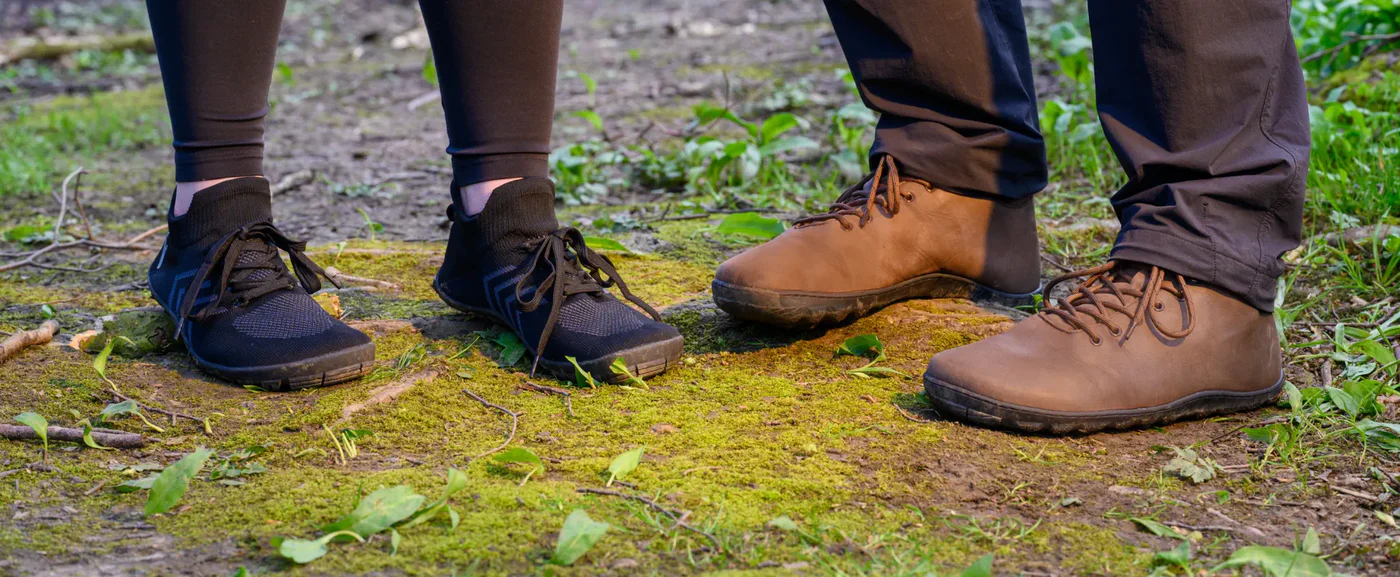
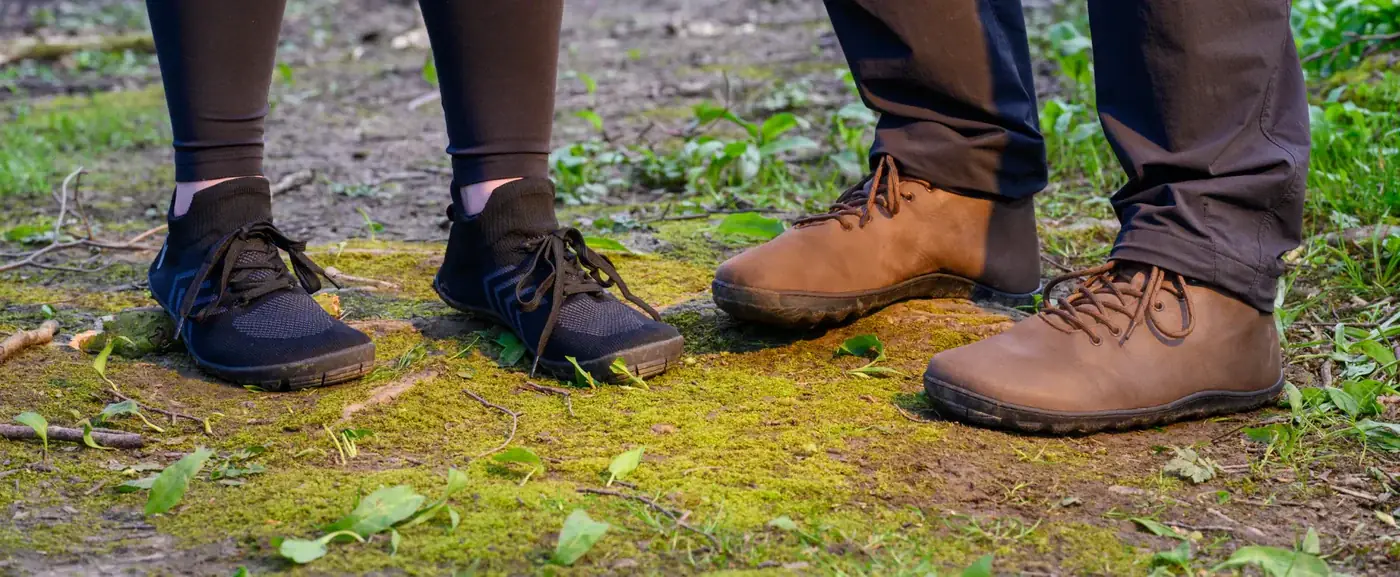
Improve mobile LCP and Lighthouse performance
Defer non-critical CSS (cart, search, footer, assistant, notice, listing, reviews) so only global/nav/home block the hero paint; defer the Meta Pixel library to first-interaction/load while keeping the fbq stub eager;
  recompress the NewToBarefoot banner (227KB to 127KB); add width/height to brand-chip logos to reserve layout.

diff --git a/public/prefs.js b/public/prefs.js
@@ -37,32 +37,51 @@ export function dismissNotice() {
   setCookie(NOTICE_COOKIE, 'seen', 365);
 }
 
-// Install the Meta Pixel: the standard base stub (which QUEUES events until
-// fbevents.js loads), then init + PageView. Idempotent — the stub's own guard
-// plus the window.fbq check make a second call a no-op, so app.js and the banner
-// component can both call it safely. Reads the pixel ID from the inert <meta> tag
-// in <head>; a no-op when it's absent (META_PIXEL_ID unset).
+// Install the Meta Pixel. Two-phase so tracking is lossless AND off the critical
+// path: the fbq stub + init + PageView run synchronously (cheap — they only push
+// onto a queue), so events fired during page init (e.g. ViewContent) are captured
+// even before the library exists. The heavy 110 KiB fbevents.js — which caused the
+// long tasks inside the LCP window — is deferred to the first interaction or
+// window 'load' (see below) and flushes the queued events when it loads.
+// Idempotent (window.fbq guard), so app.js and the banner component can both call
+// it. No-op when META_PIXEL_ID is unset (no <meta> tag).
 export function bootstrapPixel() {
   const id = document.querySelector('meta[name="meta-pixel-id"]')?.content;
   if (!id || window.fbq) return;
 
-  (function (f, b, e, v, n, t, s) {
-    if (f.fbq) return;
-    n = f.fbq = function () {
-      n.callMethod ? n.callMethod.apply(n, arguments) : n.queue.push(arguments);
-    };
-    if (!f._fbq) f._fbq = n;
-    n.push = n;
-    n.loaded = true;
-    n.version = '2.0';
-    n.queue = [];
-    t = b.createElement(e);
-    t.async = true;
-    t.src = v;
-    s = b.getElementsByTagName(e)[0];
-    s.parentNode.insertBefore(t, s);
-  })(window, document, 'script', 'https://connect.facebook.net/en_US/fbevents.js');
-
+  // Phase 1 (synchronous): the standard fbq stub that queues calls until the
+  // library loads, then init + PageView — all just enqueue, no network yet.
+  const n = (window.fbq = function () {
+    n.callMethod ? n.callMethod.apply(n, arguments) : n.queue.push(arguments);
+  });
+  if (!window._fbq) window._fbq = n;
+  n.push = n;
+  n.loaded = true;
+  n.version = '2.0';
+  n.queue = [];
   window.fbq('init', id);
   window.fbq('track', 'PageView');
+
+  // Phase 2 (deferred): download fbevents.js AFTER the hero paints, but reliably
+  // early — on the FIRST of a user interaction or window 'load' — so the queued
+  // PageView/ViewContent still send for visitors who bounce quickly. (A long idle
+  // timeout would risk losing those top-of-funnel events on slow mobile, which is
+  // exactly the ad's landing traffic.) Conversions are unaffected — they fire
+  // post-interaction, by which point the library is already loaded.
+  const loadLib = () => {
+    if (document.getElementById('fb-pixel-lib')) return;
+    const t = document.createElement('script');
+    t.async = true;
+    t.id = 'fb-pixel-lib';
+    t.src = 'https://connect.facebook.net/en_US/fbevents.js';
+    document.head.appendChild(t);
+  };
+  for (const ev of ['pointerdown', 'keydown', 'touchstart', 'scroll']) {
+    window.addEventListener(ev, loadLib, { once: true, passive: true });
+  }
+  if (document.readyState === 'complete') {
+    setTimeout(loadLib, 800);
+  } else {
+    window.addEventListener('load', () => setTimeout(loadLib, 800), { once: true });
+  }
 }

diff --git a/templates/partials/head.html b/templates/partials/head.html
@@ -61,17 +61,26 @@
 <link rel="preload" href="/fonts/GolosText-Regular.woff2" as="font" type="font/woff2" crossorigin>
 <link rel="preload" href="/fonts/GolosText-Bold.woff2" as="font" type="font/woff2" crossorigin>
 
-{{/* Always-on chrome: design tokens/utilities (global), nav, search box, cart
-   drawer and footer all appear on every page. Page-specific stylesheets are
-   loaded by each page template right after this partial, so a page only pulls
-   the CSS it actually uses (fewer render-blocking requests). */}}
+{{/* Critical, render-blocking: design tokens/utilities (global) + the nav, which
+   is the only always-on chrome in the initial viewport. Everything below the fold
+   or behind an interaction (search overlay, cart drawer, footer, assistant widget,
+   cookie notice) is loaded non-blocking via preload→stylesheet, so it no longer
+   delays first paint / LCP. The <noscript> block keeps them working without JS.
+   Page-specific stylesheets are loaded by each page template right after this. */}}
 <link rel="stylesheet" href="{{asset "/css/global.css"}}">
 <link rel="stylesheet" href="{{asset "/css/nav.css"}}">
-<link rel="stylesheet" href="{{asset "/css/search.css"}}">
-<link rel="stylesheet" href="{{asset "/css/cart.css"}}">
-<link rel="stylesheet" href="{{asset "/css/footer.css"}}">
-<link rel="stylesheet" href="{{asset "/css/assistant.css"}}">
-{{if pixelID}}<link rel="stylesheet" href="{{asset "/css/prefs.css"}}">{{end}}
+<link rel="preload" as="style" href="{{asset "/css/search.css"}}" onload="this.onload=null;this.rel='stylesheet'">
+<link rel="preload" as="style" href="{{asset "/css/cart.css"}}" onload="this.onload=null;this.rel='stylesheet'">
+<link rel="preload" as="style" href="{{asset "/css/footer.css"}}" onload="this.onload=null;this.rel='stylesheet'">
+<link rel="preload" as="style" href="{{asset "/css/assistant.css"}}" onload="this.onload=null;this.rel='stylesheet'">
+{{if pixelID}}<link rel="preload" as="style" href="{{asset "/css/prefs.css"}}" onload="this.onload=null;this.rel='stylesheet'">{{end}}
+<noscript>
+  <link rel="stylesheet" href="{{asset "/css/search.css"}}">
+  <link rel="stylesheet" href="{{asset "/css/cart.css"}}">
+  <link rel="stylesheet" href="{{asset "/css/footer.css"}}">
+  <link rel="stylesheet" href="{{asset "/css/assistant.css"}}">
+  {{if pixelID}}<link rel="stylesheet" href="{{asset "/css/prefs.css"}}">{{end}}
+</noscript>
 <link rel="icon" href="/favicon.ico" sizes="32x32">
 <link rel="icon" href="/favicon.svg" type="image/svg+xml">
 <link rel="apple-touch-icon" href="/apple-touch-icon.png">

diff --git a/templates/pages/home.html b/templates/pages/home.html
@@ -3,9 +3,15 @@
 <html lang="{{.Locale}}">
   <head>
     {{template "head" .}}
+    {{/* home.css styles the hero (LCP) — keep it render-blocking. The product
+       grid and reviews sit below the fold, so their CSS loads non-blocking. */}}
     <link rel="stylesheet" href="{{asset "/css/home.css"}}">
-    <link rel="stylesheet" href="{{asset "/css/listing.css"}}">
-    <link rel="stylesheet" href="{{asset "/css/reviews.css"}}">
+    <link rel="preload" as="style" href="{{asset "/css/listing.css"}}" onload="this.onload=null;this.rel='stylesheet'">
+    <link rel="preload" as="style" href="{{asset "/css/reviews.css"}}" onload="this.onload=null;this.rel='stylesheet'">
+    <noscript>
+      <link rel="stylesheet" href="{{asset "/css/listing.css"}}">
+      <link rel="stylesheet" href="{{asset "/css/reviews.css"}}">
+    </noscript>
     <title>{{t .Locale "seo.title.home"}} — Bosfoot</title>
   </head>
   <body>
@@ -155,10 +161,15 @@
               href="/{{$.Locale}}/products?brand={{.Slug}}"
             >
               {{if .LogoURL}}
+              {{/* width/height give the box an aspect ratio up front (no CLS);
+                 CSS sizes it to 3rem tall and object-fit:contain keeps any brand
+                 logo undistorted regardless of its real ratio. */}}
               <img
                 class="brand-chip__logo"
                 src="{{deref .LogoURL}}"
                 alt="{{.Name}}"
+                width="321"
+                height="176"
                 loading="lazy"
               />
               {{else}}

diff --git a/public/app.js b/public/app.js
@@ -5,12 +5,13 @@
 // Bumped: 2026-07-24
 import { bootstrapPixel } from './prefs.js';
 
-// Install the Meta Pixel for every visitor, synchronously, before the dynamic
-// component imports below resolve. The fbq stub queues events, so a ViewContent
-// fired at product-detail init is captured instead of racing an undefined
-// window.fbq. No-op when META_PIXEL_ID is unset (no <meta> tag in <head>). The
-// prefs-ui component shows an informational cookie notice — it does NOT gate the
-// pixel.
+// Install the Meta Pixel for every visitor. The fbq stub + init + PageView run
+// synchronously here (before the dynamic component imports below), so a
+// ViewContent fired at product-detail init is queued instead of racing an
+// undefined window.fbq — but the heavy fbevents.js library is deferred to idle
+// inside bootstrapPixel(), keeping it out of the LCP window. No-op when
+// META_PIXEL_ID is unset (no <meta> tag). The prefs-ui component shows an
+// informational cookie notice — it does NOT gate the pixel.
 bootstrapPixel();
 
 // Each component is loaded with a dynamic import and initialised in isolation.

diff --git a/public/funnel.js b/public/funnel.js
@@ -17,9 +17,10 @@ export function track(event, data = {}) {
 
   // First-party beacon is deliberately NOT gated on cookie consent: it sets no
   // cookie and stores no identifier (only product_id + locale), so it's anonymous
-  // legitimate-interest analytics, not marketing tracking. Only the Meta Pixel
-  // above requires consent (handled by it simply not loading — window.fbq stays
-  // undefined — until the visitor accepts; see public/prefs.js).
+  // legitimate-interest analytics, not marketing tracking. The Meta Pixel above
+  // is gated only on META_PIXEL_ID (server-side): when it's unset window.fbq
+  // stays undefined and the call no-ops. The cookie notice (public/prefs.js) is
+  // informational — it does NOT hold the pixel until the visitor accepts.
   if (event === 'AddToCart' && navigator.sendBeacon) {
     const body = JSON.stringify({
       event: 'add_to_cart',
